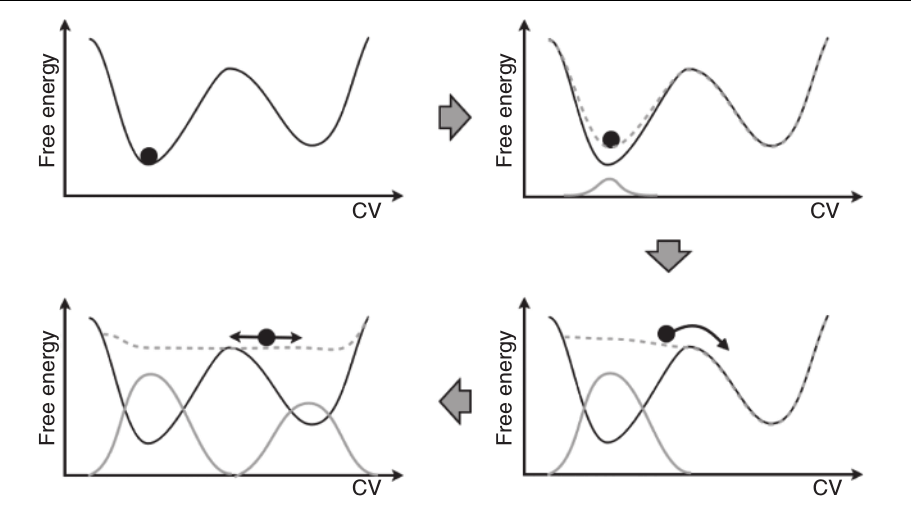
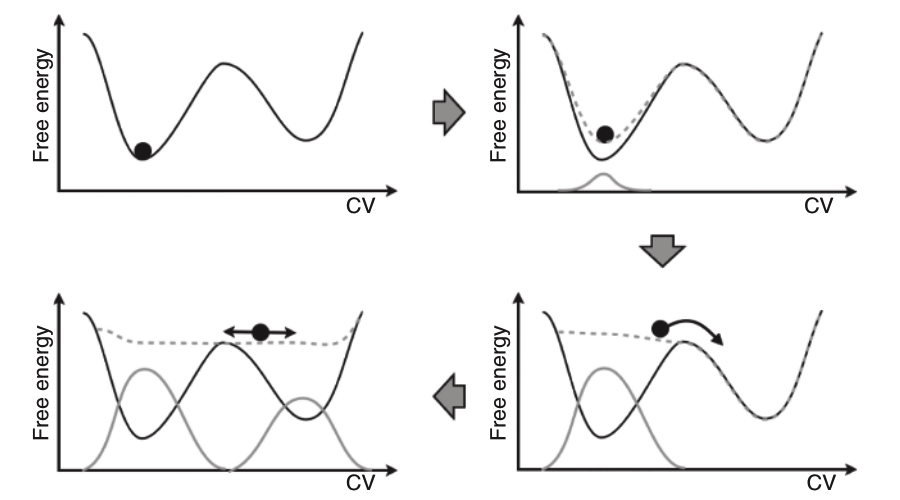
Day1

diff --git a/WEEK1.md b/WEEK1.md
@@ -1,4 +1,3 @@
-
 # Monday 10/10/2022
 
 ## Get familiar with the model
@@ -40,7 +39,7 @@ Got introduced to multiple concepts:
 
 One approah is **metadynamics**, at $δt$, Gaussian potentials are dynamically placed on the potential energy landscape in order to flatten energy wells and reduce oversampling of local energy minima. This greatly accelerates the sampling of configuration space.
 
-![](./images/metadynamics.png) 
+ ![metadynamics](./images/metadynamics.png){ width="1" height="1" style="display: block; margin: 10 auto" }
 
 A sketch of the process of metadynamics. First the system evolves according to a normal dynamics, then a Gaussian potential is deposited (solid gray line). This lifts the system and modifies the free-energy landscape (dashed gray line) in which the dynamics evolves. After a while the sum of Gaussian potentials fills up the first metastable state and the system moves into the second metastable basin. After this the second metastable basin is filled, at this point, the system evolves in a flat landscape. The summation of the deposited bias (solid gray profile) provides a first rough negative estimate of the free-energy profile. [ref](https://parrinello.ethz.ch/research/metadynamics.html)
 
